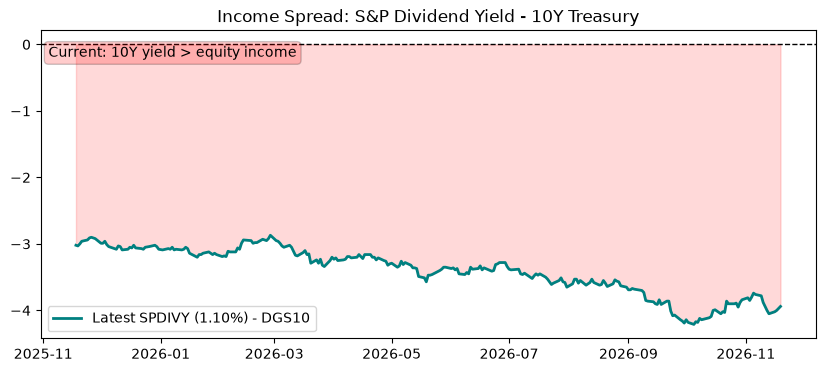
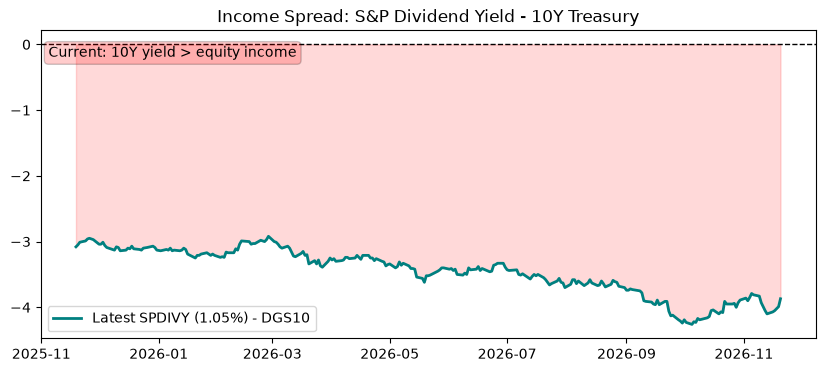
Update market summary

diff --git a/README.md b/README.md
@@ -5,7 +5,7 @@
 
 **🔴 Downturn Risk**  
 **Score:** Downturn 3/3 | Recovery 0/3  
-**Last Updated:** 2026-11-21
+**Last Updated:** 2026-11-23
 
 ---
 
@@ -23,16 +23,20 @@ Seek out the information you need for your future self!
 
 ## AI Risk Commentary
 
-- SPY price = 689.81; MA200 = 732.76; price is 42.95 points (5.86%) below MA200.  
-- QQQ price = 608.45; MA100 = 710.68; price is 102.23 points (14.38%) below MA100.  
-- ARKK three-month change = -25.65%; reported price return over the observation period, isolated from yield mechanics.  
-- VIX level = 35.89; index reading in percentage points.  
-- OVX level = 54.12; regime labeled "low", index reading in comparable volatility units.  
-- TNX yield = 4.91%; annualized 10-year Treasury yield baseline.  
-- Mortgage rate = 7.28%; condition labeled "Unfavorable".  
-- Income spread: sp_div_yield = 1.1%; ten_year_yield = 5.04%; spread calculated as 1.1 - 5.04 = -3.94 percentage points. The negative spread mathematically places bond yields above equity dividend yields on the given baseline.  
+- SPY price = 689.81, MA200 = 732.76, deviation = -5.86%.
+- QQQ price = 608.45, MA100 = 710.68, deviation = -14.35%.
+- ARKK three-month change = -25.65%.
+- VIX level = 35.89. OVX level = 54.12, regime = "low".
+- TNX yield = 4.92%. SP dividend yield = 1.05%. Income spread = 1.05 - 4.92 = -3.87 percentage points; regime = "Bond Yield Advantage".
+- Negative income spread means SP dividend yield is below 10-year yield by 3.87 percentage points. The income spread favors bonds over equities.
+- Mortgage rate = 7.28%, condition = "Unfavorable". Mortgage rate minus TNX = 7.28 - 4.92 = 2.36 percentage points.
 
-The dataset provides quantified price deviations from moving averages, annualized yield baselines, and index-level volatility readings. ARKK return is a standalone period metric. Yield values operate on an annualized basis. The income spread mechanically quantifies the difference between equity dividend yield and 10-year Treasury yield, producing a negative value that places bond yields above equity dividends. Mortgage rate is reported at 7.28 with the stated condition label. Volatility indexes are reported at their given levels and regimes. All descriptions reflect calculated relationships between the provided data points without predictive interpretation. Raw data is available in /data.
+Synthesis:
+The current math indicates that equity prices are below long-term moving averages, ARKK shows a -25.65% three-month price change, and VIX is at 35.89. The income spread is -3.87 percentage points, placing it in the Bond Yield Advantage regime and favoring bonds over equities. TNX is at 4.92%, mortgage condition is "Unfavorable" at 7.28%, and OVX regime is "low".
+
+Time horizon clarity: TNX, mortgage rate, and income spread are yield/contract-based measures; SPY, QQQ, and ARKK are price-based measures.
+
+Raw data is available in /data.
 
 ---
 
